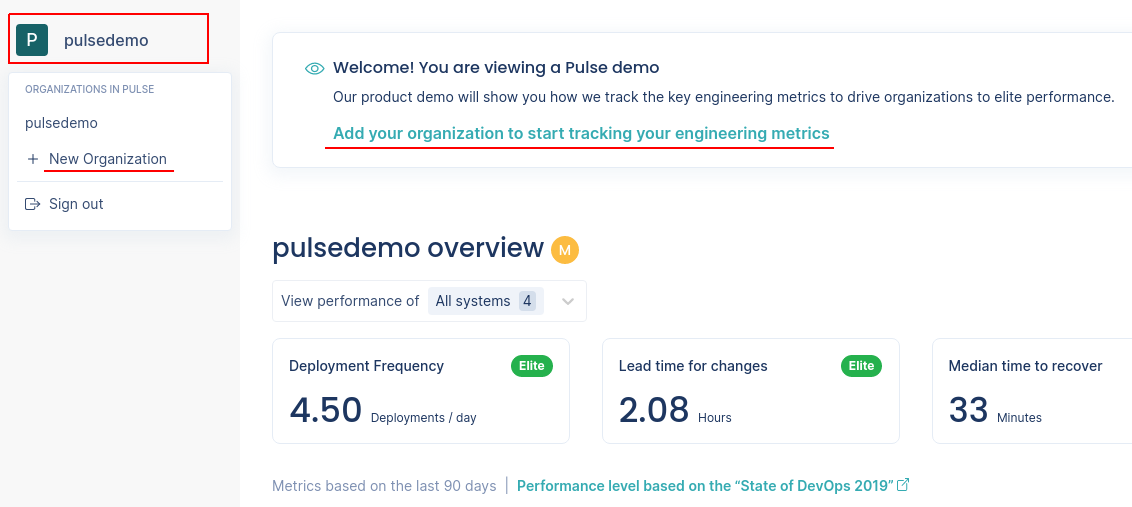
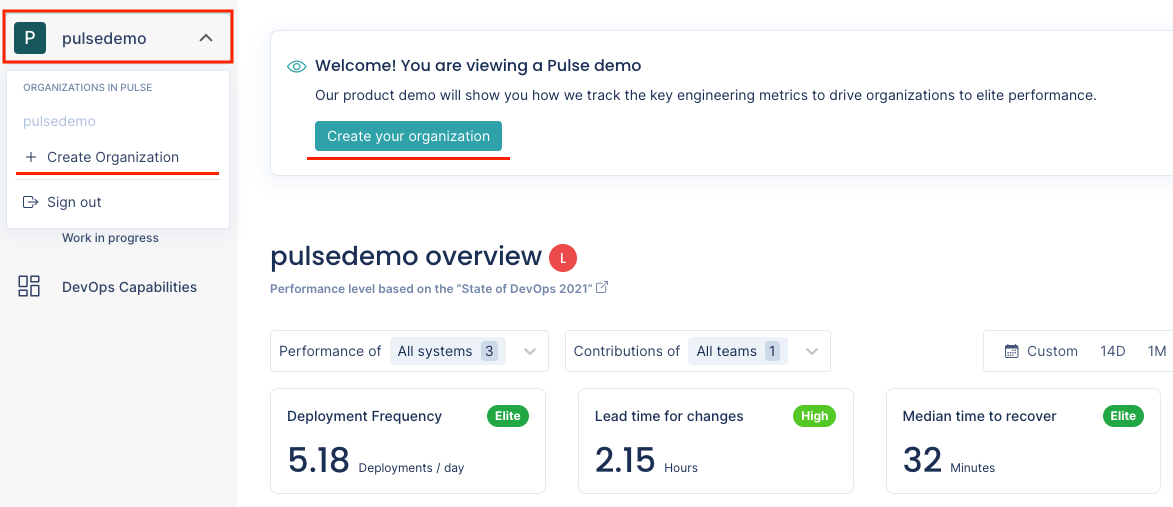
Deployed d6882e5 with MkDocs version: 1.1.2

diff --git a/index.html b/index.html
@@ -519,7 +519,7 @@
 <h2 id="1-creating-your-organization-on-pulse">1. Creating your organization on Pulse<a class="headerlink" href="#1-creating-your-organization-on-pulse" title="Permanent link">&para;</a></h2>
 <p>You must create an organization on Pulse to start the onboarding. Click the link in the welcome banner at the top of the page and follow the instructions.</p>
 <p><img alt="Adding a new organization on Pulse" src="images/organization-add.png" /></p>
-<p>To add more organizations, click the name of the current organization on the top left-hand corner and select <strong>New Organization</strong>.</p>
+<p>To add more organizations, click the name of the current organization on the top left-hand corner and select <strong>Create Organization</strong>.</p>
 <h2 id="2-pushing-data-to-pulse">2. Pushing data to Pulse<a class="headerlink" href="#2-pushing-data-to-pulse" title="Permanent link">&para;</a></h2>
 <p>Currently, Pulse provides a push-based integration with your workflow using one of the following alternatives:</p>
 <ul>
